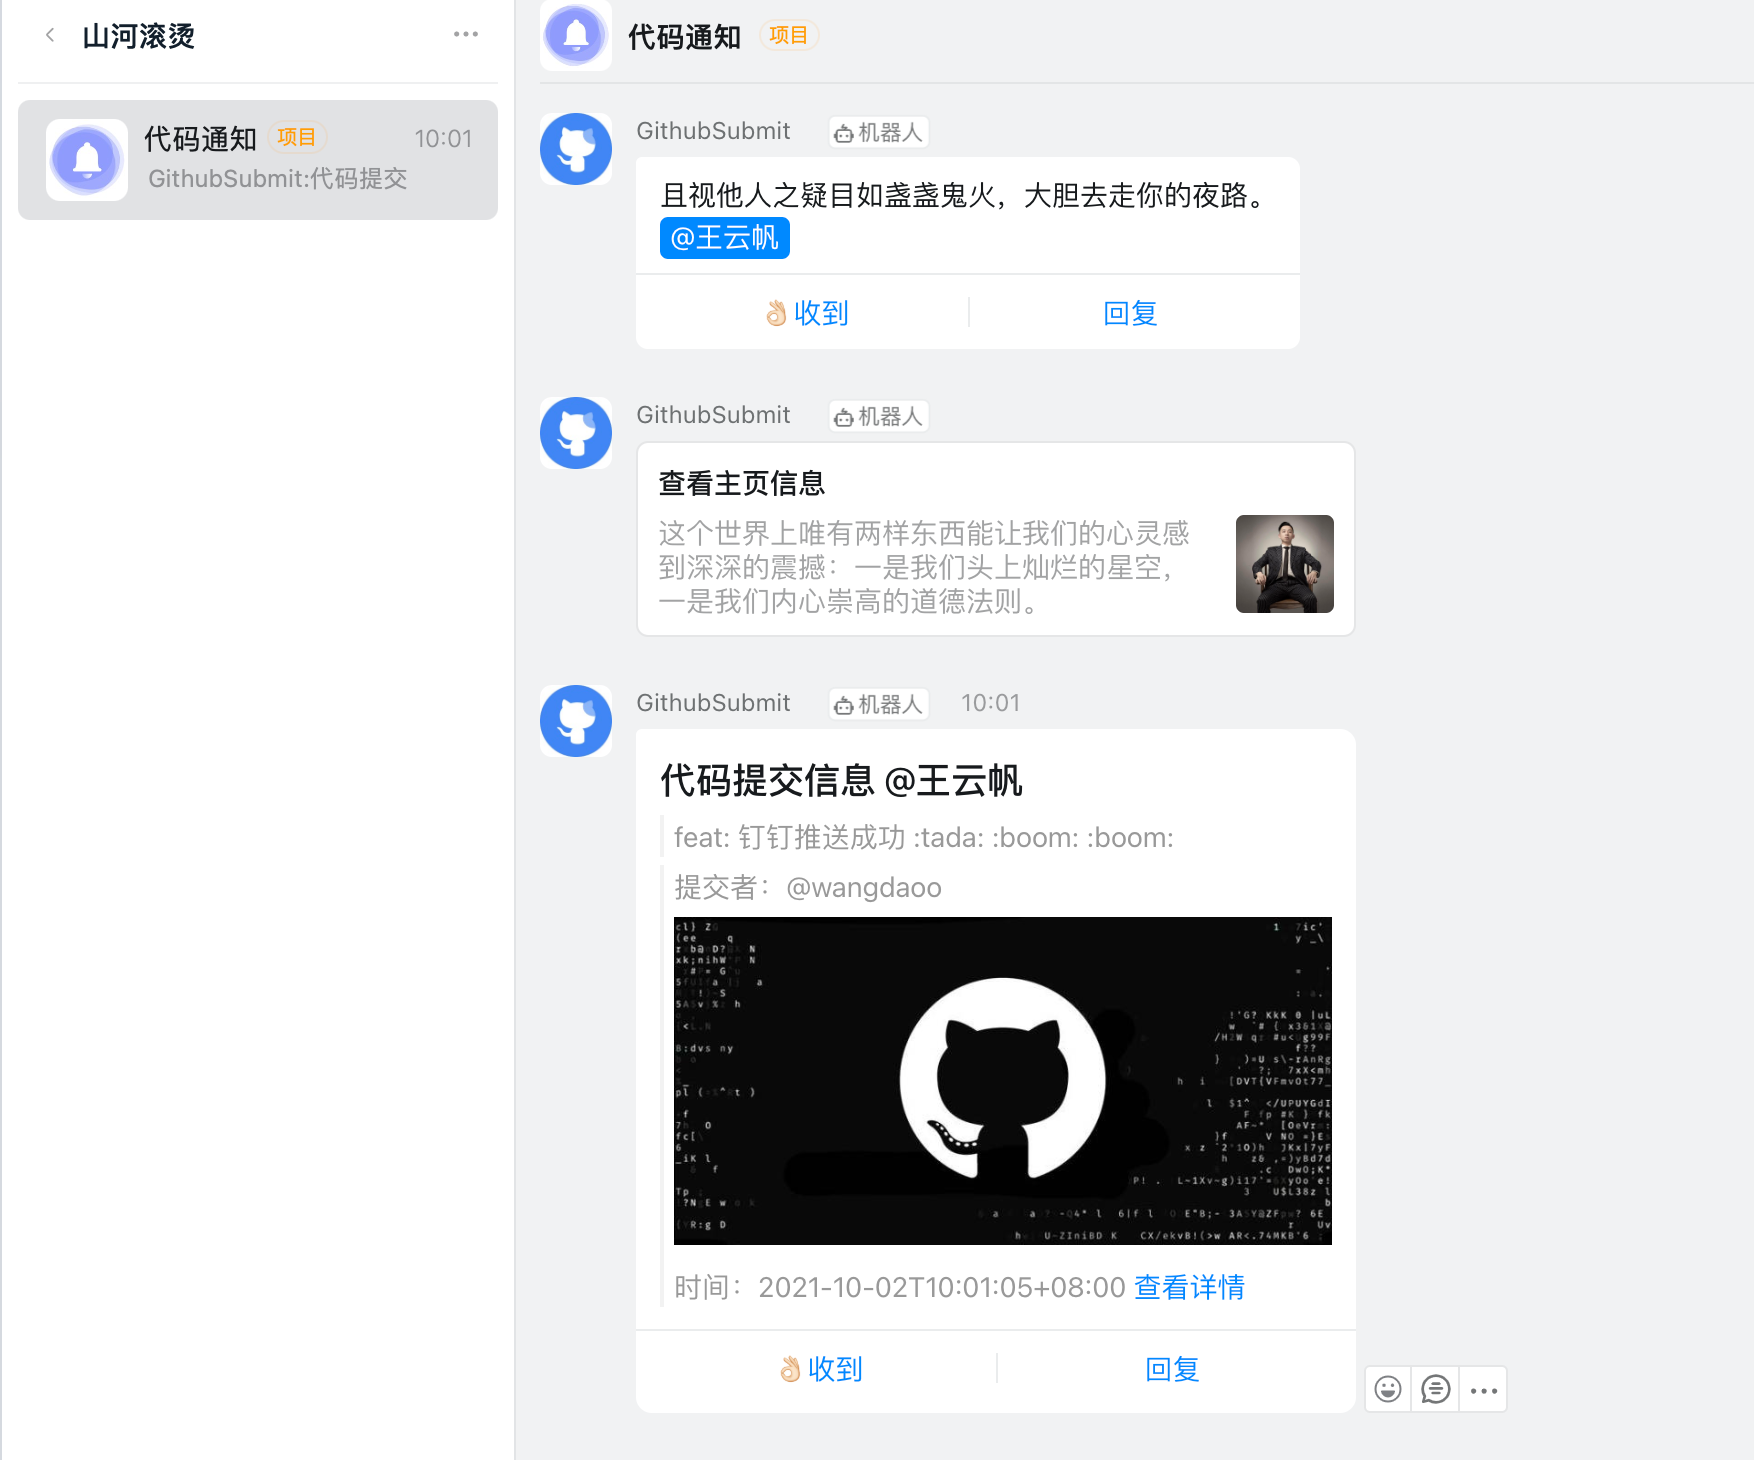
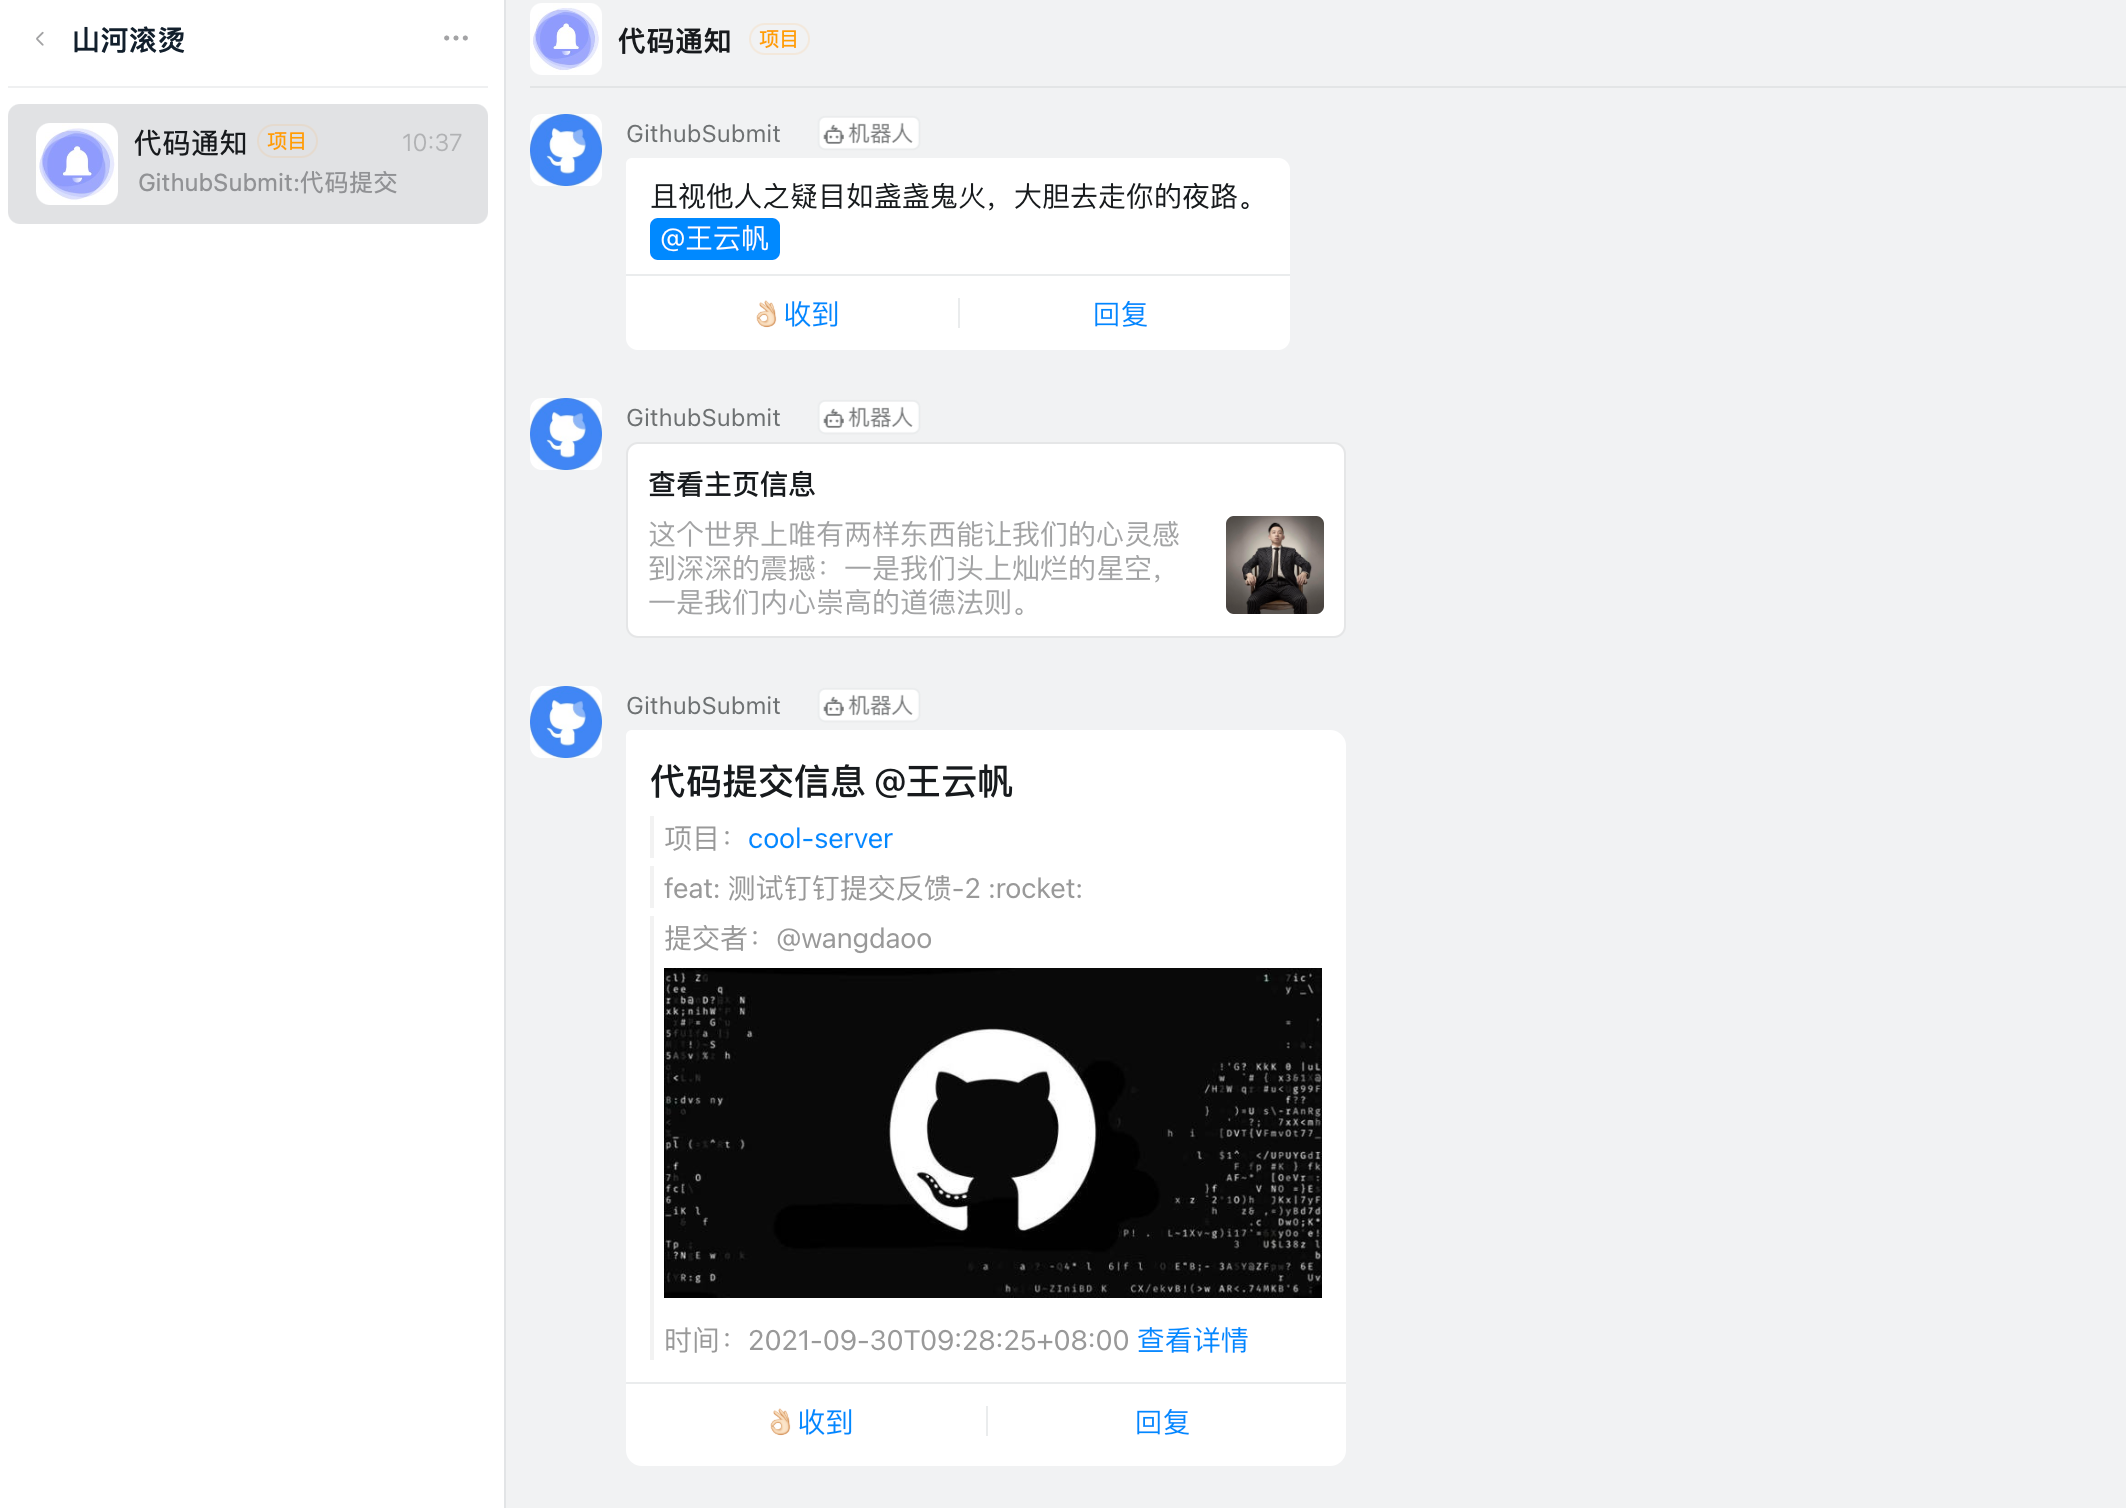
feat: 钉钉实例推送 :rocket:

diff --git a/index.js b/index.js
@@ -23,6 +23,10 @@ app.post('/notice', async (req, res) => {
   const { message, timestamp, url } = req.body.head_commit;
   /** 获取头像 */
   const { avatar_url, html_url } = req.body.sender;
+  /** 项目名称 */
+  const projectName = req.body.repository.name;
+  /** 项目主页 */
+  const projectHtml = req.body.repository.html_url;
   /** 获取用户信息 */
   let user = PhoneList.find((item) => item.name === name);
 
@@ -48,6 +52,7 @@ app.post('/notice', async (req, res) => {
   const title = '代码提交';
   const text =
     `## 代码提交信息 @${user.phone}\n` +
+    `> 项目：[${projectName}](${projectHtml}) \n\n` +
     `> ${message} \n\n` +
     `> 提交者：@${name} \n` +
     `> ![screenshot](http://cdn.wangdaoo.com/github.jpeg)\n` +
